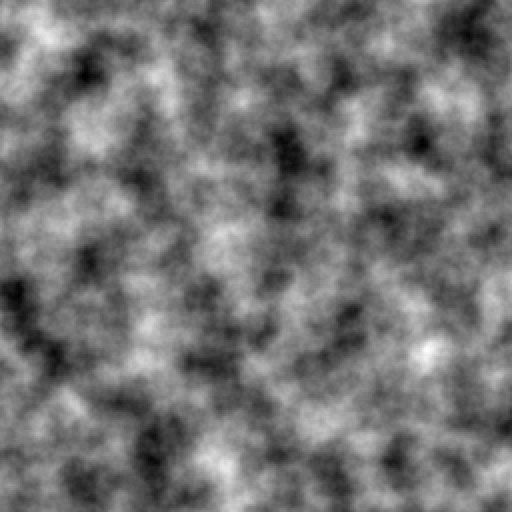
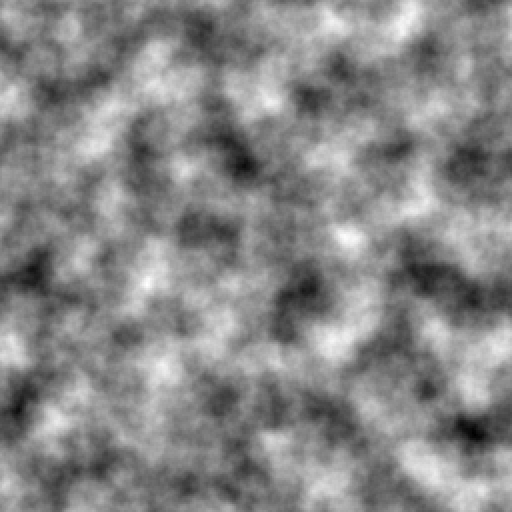
Update the README for scrubbed seed phrases and the start of P1 and P2

diff --git a/README.md b/README.md
@@ -46,20 +46,20 @@ The full design is in [`docs/design/design.md`](docs/design/design.md).
 
 | | |
 | --- | --- |
-| **Current phase** | P0 Foundation: implemented and merged, awaiting Paul's end-of-phase review |
-| **Next phase** | P1 Geography, in parallel with P2 Godot bring-up and viewer |
-| **Current milestone** | Milestone 0, Geography generator: not yet reached (needs P1 and P2) |
-| **Work in flight** | None. No agents are running and no branches are unmerged. |
+| **Current phase** | P1 Geography and P2 Godot bring-up and viewer, running in parallel. P0 Foundation is complete |
+| **Next phase** | P3 History core, after P1 |
+| **Current milestone** | Milestone 0, Geography generator: in progress (P1 and P2) |
+| **Work in flight** | P1: the geography stage specs are being written; no geography code yet. P2: Godot version pinning, the C++ extension and viewer v0 are in progress on branch `p2/viewer`. |
 | **`main`** | Builds and passes all tests on Linux (GCC, Clang, Clang with sanitizers) and Windows (MSVC), in debug and release |
 
 **What "P0 done" means.** The phase's exit check is that an empty world file is byte-identical across all three compilers and that `worldgen-cli hash` proves it in continuous integration. It does: eight test worlds, six empty and two holding test layers, are identical across all seven build configurations, and each matches its recorded golden hash. CI repeats the comparison on every push.
 
-**Open before P1 starts**
+**Since P0 was first completed**
 
-- Paul's review of P0 (each phase ends with one).
-- Fourteen entries in [`docs/design/proposals.md`](docs/design/proposals.md) recording decisions and findings from P0 are waiting to be carried back into the design document. All are marked open; none blocks P1.
+- Paul reviewed P0 and merged its fourteen proposals into the design document.
+- Seed phrases are now scrubbed, a design change made at that review. This changed the bytes of phrase worlds, so the generator version went from 0.1.0 to 0.2.0 and all golden hashes were re-recorded: the first use of the version rule.
 
-**Known gaps and notes from P0**
+**Known gaps and notes**
 
 - No geography of any kind exists yet. `--map-size` is recorded in the world file but nothing generates at that size.
 - The TOML loader's machinery is complete and tested, but no real data kinds (biomes, races and so on) are registered, so `--data` reads nothing.
@@ -76,24 +76,25 @@ The first block of work is the world generator prototype: seven phases, P0 to P6
 
 | Phase | Delivers | Depends on | Status |
 | --- | --- | --- | --- |
-| **P0 Foundation** | Repository layout, CMake presets, vendored dependencies, CI on three compilers, the deterministic core, the reproducible SQLite layer, the TOML loader, `worldgen-cli` | — | **Done** 2026-11-15, awaiting review |
-| **P1 Geography** | Elevation, erosion, hydrology, climate, biomes, resources and regions, each writing its layer; image export per layer | P0 | **Next.** Not started |
-| **P2 Godot bring-up and viewer v0** | Godot version pinned, C++ extension building on Linux and Windows, `world.db` reader bound into Godot, 2D map with switchable layers | P0; parallel with P1 | Not started |
+| **P0 Foundation** | Repository layout, CMake presets, vendored dependencies, CI on three compilers, the deterministic core, the reproducible SQLite layer, the TOML loader, `worldgen-cli` | — | **Done** 2026-11-15, reviewed |
+| **P1 Geography** | Elevation, erosion, hydrology, climate, biomes, resources and regions, each writing its layer; image export per layer | P0 | **In progress** since 2026-11-15: specs being written |
+| **P2 Godot bring-up and viewer v0** | Godot version pinned, C++ extension building on Linux and Windows, `world.db` reader bound into Godot, 2D map with switchable layers | P0; parallel with P1 | **In progress** since 2026-11-15 |
 | **P3 History core** | Race and culture definitions, ages and the awakening schedule, active phases and quiet intervals, civilizations, settlements, wars, ruin, the event log, a text history report | P1 | Not started |
 | **P4 Viewer v1** | Timeline scrubber, territory by year, settlement and site markers, browser for civilizations and events | P2, P3; parallel with P5 | Not started |
 | **P5 History depth** | God interventions, beast populations, named monsters, figures and factions, race relations, casters and spellbooks | P3 | Not started |
 | **P6 Derivation and polish** | Sites, dungeon records, quest hooks and spellbook placement derived from history; world-creation settings on the command line; 3D heightmap preview | P4, P5 | Not started |
 
 ```
-P0 ██████████ done ──┬─► P1 Geography ──► P3 History core ──┬─► P5 History depth ──┬─► P6 Derivation
-   (you are here)    └─► P2 Viewer v0 ─────────────────────┴─► P4 Viewer v1 ──────┘
+P0 ██████████ done ──┬─► P1 Geography ░░ in progress ──► P3 History core ──┬─► P5 History depth ──┬─► P6 Derivation
+                     └─► P2 Viewer v0 ░░ in progress ─────────────────────┴─► P4 Viewer v1 ──────┘
+                         (you are here)
 ```
 
 ### Milestones
 
 | # | Milestone | Reached when | Status |
 | --- | --- | --- | --- |
-| 0 | Geography generator | `worldgen-cli` writes a world with all geography layers; maps look plausible in image export and in the viewer; identical file hash on Linux and Windows | In progress: foundation done (P0); needs P1 and P2 |
+| 0 | Geography generator | `worldgen-cli` writes a world with all geography layers; maps look plausible in image export and in the viewer; identical file hash on Linux and Windows | In progress: foundation done (P0); P1 and P2 under way |
 | 1 | History generator | Default history generates in under two minutes; races appear in order; the event log reads as coherent history; sites and quest hooks derived | Not started (P3 to P6) |
 | 2 | Walkable terrain | Godot streams terrain from a world file; the player can cross the map on flat screen without hitches | Not started |
 | 3 | VR parity | The same build starts in VR or flat; the fly-across test holds 90 Hz in VR | Not started |
@@ -116,7 +117,7 @@ Milestones 0 and 1 carry the most design risk, since they decide whether generat
 | TOML loader | [`p0-03`](docs/specs/p0-03-toml-loader.md) | Settings file, data-file discovery and validation in a fixed order, a content hash, and no floating point on the path to the generator |
 | `worldgen-cli` | [`p0-04`](docs/specs/p0-04-worldgen-cli.md) | `generate`, `render`, `report` and `hash` |
 
-Around them: about 290 automated test cases, 1,458 golden vectors for the core produced by an independent Python reference, a second independent Python check of world-file contents, a lint for constructs that break determinism, and a CI job that compares world hashes across every compiler.
+Around them: about 300 automated test cases, 2,201 golden vectors for the core produced by an independent Python reference, a second independent Python check of world-file contents, a lint for constructs that break determinism, and a CI job that compares world hashes across every compiler.
 
 ## What works today
 
@@ -124,9 +125,9 @@ Around them: about 290 automated test cases, 1,458 golden vectors for the core p
 
 ```
 $ worldgen-cli generate --seed-phrase "The Unmapped" --test-pattern
-/home/you/.cache/the-unmapped/out/world-8180607403873905586.db
+/home/you/.cache/the-unmapped/out/world-15629206466951235176.db
 
-$ worldgen-cli report --db ~/.cache/the-unmapped/out/world-8180607403873905586.db
+$ worldgen-cli report --db ~/.cache/the-unmapped/out/world-15629206466951235176.db
 # worldgen report v1
 [meta]
 content_hash = e3b0c44298fc1c149afbf4c8996fb92427ae41e4649b934ca495991b7852b855
@@ -134,31 +135,31 @@ format = the-unmapped-world
 generator_version = 0.2.0
 param.map_size = 1024
 schema_version = 1
-seed = 8180607403873905586
-seed_phrase = The Unmapped
+seed = 15629206466951235176
+seed_phrase = the unmapped
 stages = test_pattern
 [tables]
 layer = 3
 meta = 8
 [layers]
 test.ramp u8 256x256 codec=1 bytes=65818 min=0 max=255
-test.hash u8 256x256 codec=1 bytes=102422 min=0 max=255
-test.noise i16 256x256 codec=1 bytes=127532 min=-15532 max=18925
+test.hash u8 256x256 codec=1 bytes=102697 min=0 max=255
+test.noise i16 256x256 codec=1 bytes=127365 min=-18503 max=16378
 
-$ worldgen-cli hash --db ~/.cache/the-unmapped/out/world-8180607403873905586.db
[1 lines of base64/hex data omitted]
+$ worldgen-cli hash --db ~/.cache/the-unmapped/out/world-15629206466951235176.db
[1 lines of base64/hex data omitted]
 
-$ worldgen-cli render --db ~/.cache/the-unmapped/out/world-8180607403873905586.db --layer test.noise --scale 2
-/home/you/.cache/the-unmapped/out/world-8180607403873905586.test.noise.png
+$ worldgen-cli render --db ~/.cache/the-unmapped/out/world-15629206466951235176.db --layer test.noise --scale 2
+/home/you/.cache/the-unmapped/out/world-15629206466951235176.test.noise.png
 ```
 
-That hash is the same on every supported compiler and platform. The rendered noise layer, the raw material P1's elevation stage will shape into a continent:
+That hash is the same on every supported compiler and platform. A seed phrase is scrubbed before use (lower-cased, with everything other than a to z and 0 to 9 treated as a space), so `"the-unmapped!"` and `"THE  UNMAPPED"` give this same world. The rendered noise layer, the raw material P1's elevation stage will shape into a continent:
 
 ![The test.noise layer of the world generated from the phrase "The Unmapped"](docs/images/p0-test-noise.png)
 
 | Command | Does |
 | --- | --- |
-| `generate` | Writes a world file from `--seed N` (decimal or `0x` hex) or `--seed-phrase TEXT`. Options: `--out`, `--map-size 512\|1024\|2048`, `--settings FILE`, `--data DIR`, `--test-pattern`, `--force` |
+| `generate` | Writes a world file from `--seed N` (decimal or `0x` hex) or `--seed-phrase TEXT` (scrubbed; a phrase is never read as a number). Options: `--out`, `--map-size 512\|1024\|2048`, `--settings FILE`, `--data DIR`, `--test-pattern`, `--force` |
 | `report` | Prints the metadata, row counts per table, and each layer's type, size and value range |
 | `render` | Exports a layer as a grayscale PNG, with `--scale 1..16` |
 | `hash` | Prints the SHA-256 of the file (equal to `sha256sum`). `--detail` adds separate hashes of the schema, each table and each layer, to locate a difference; `--expect HEX` checks against a known value |
